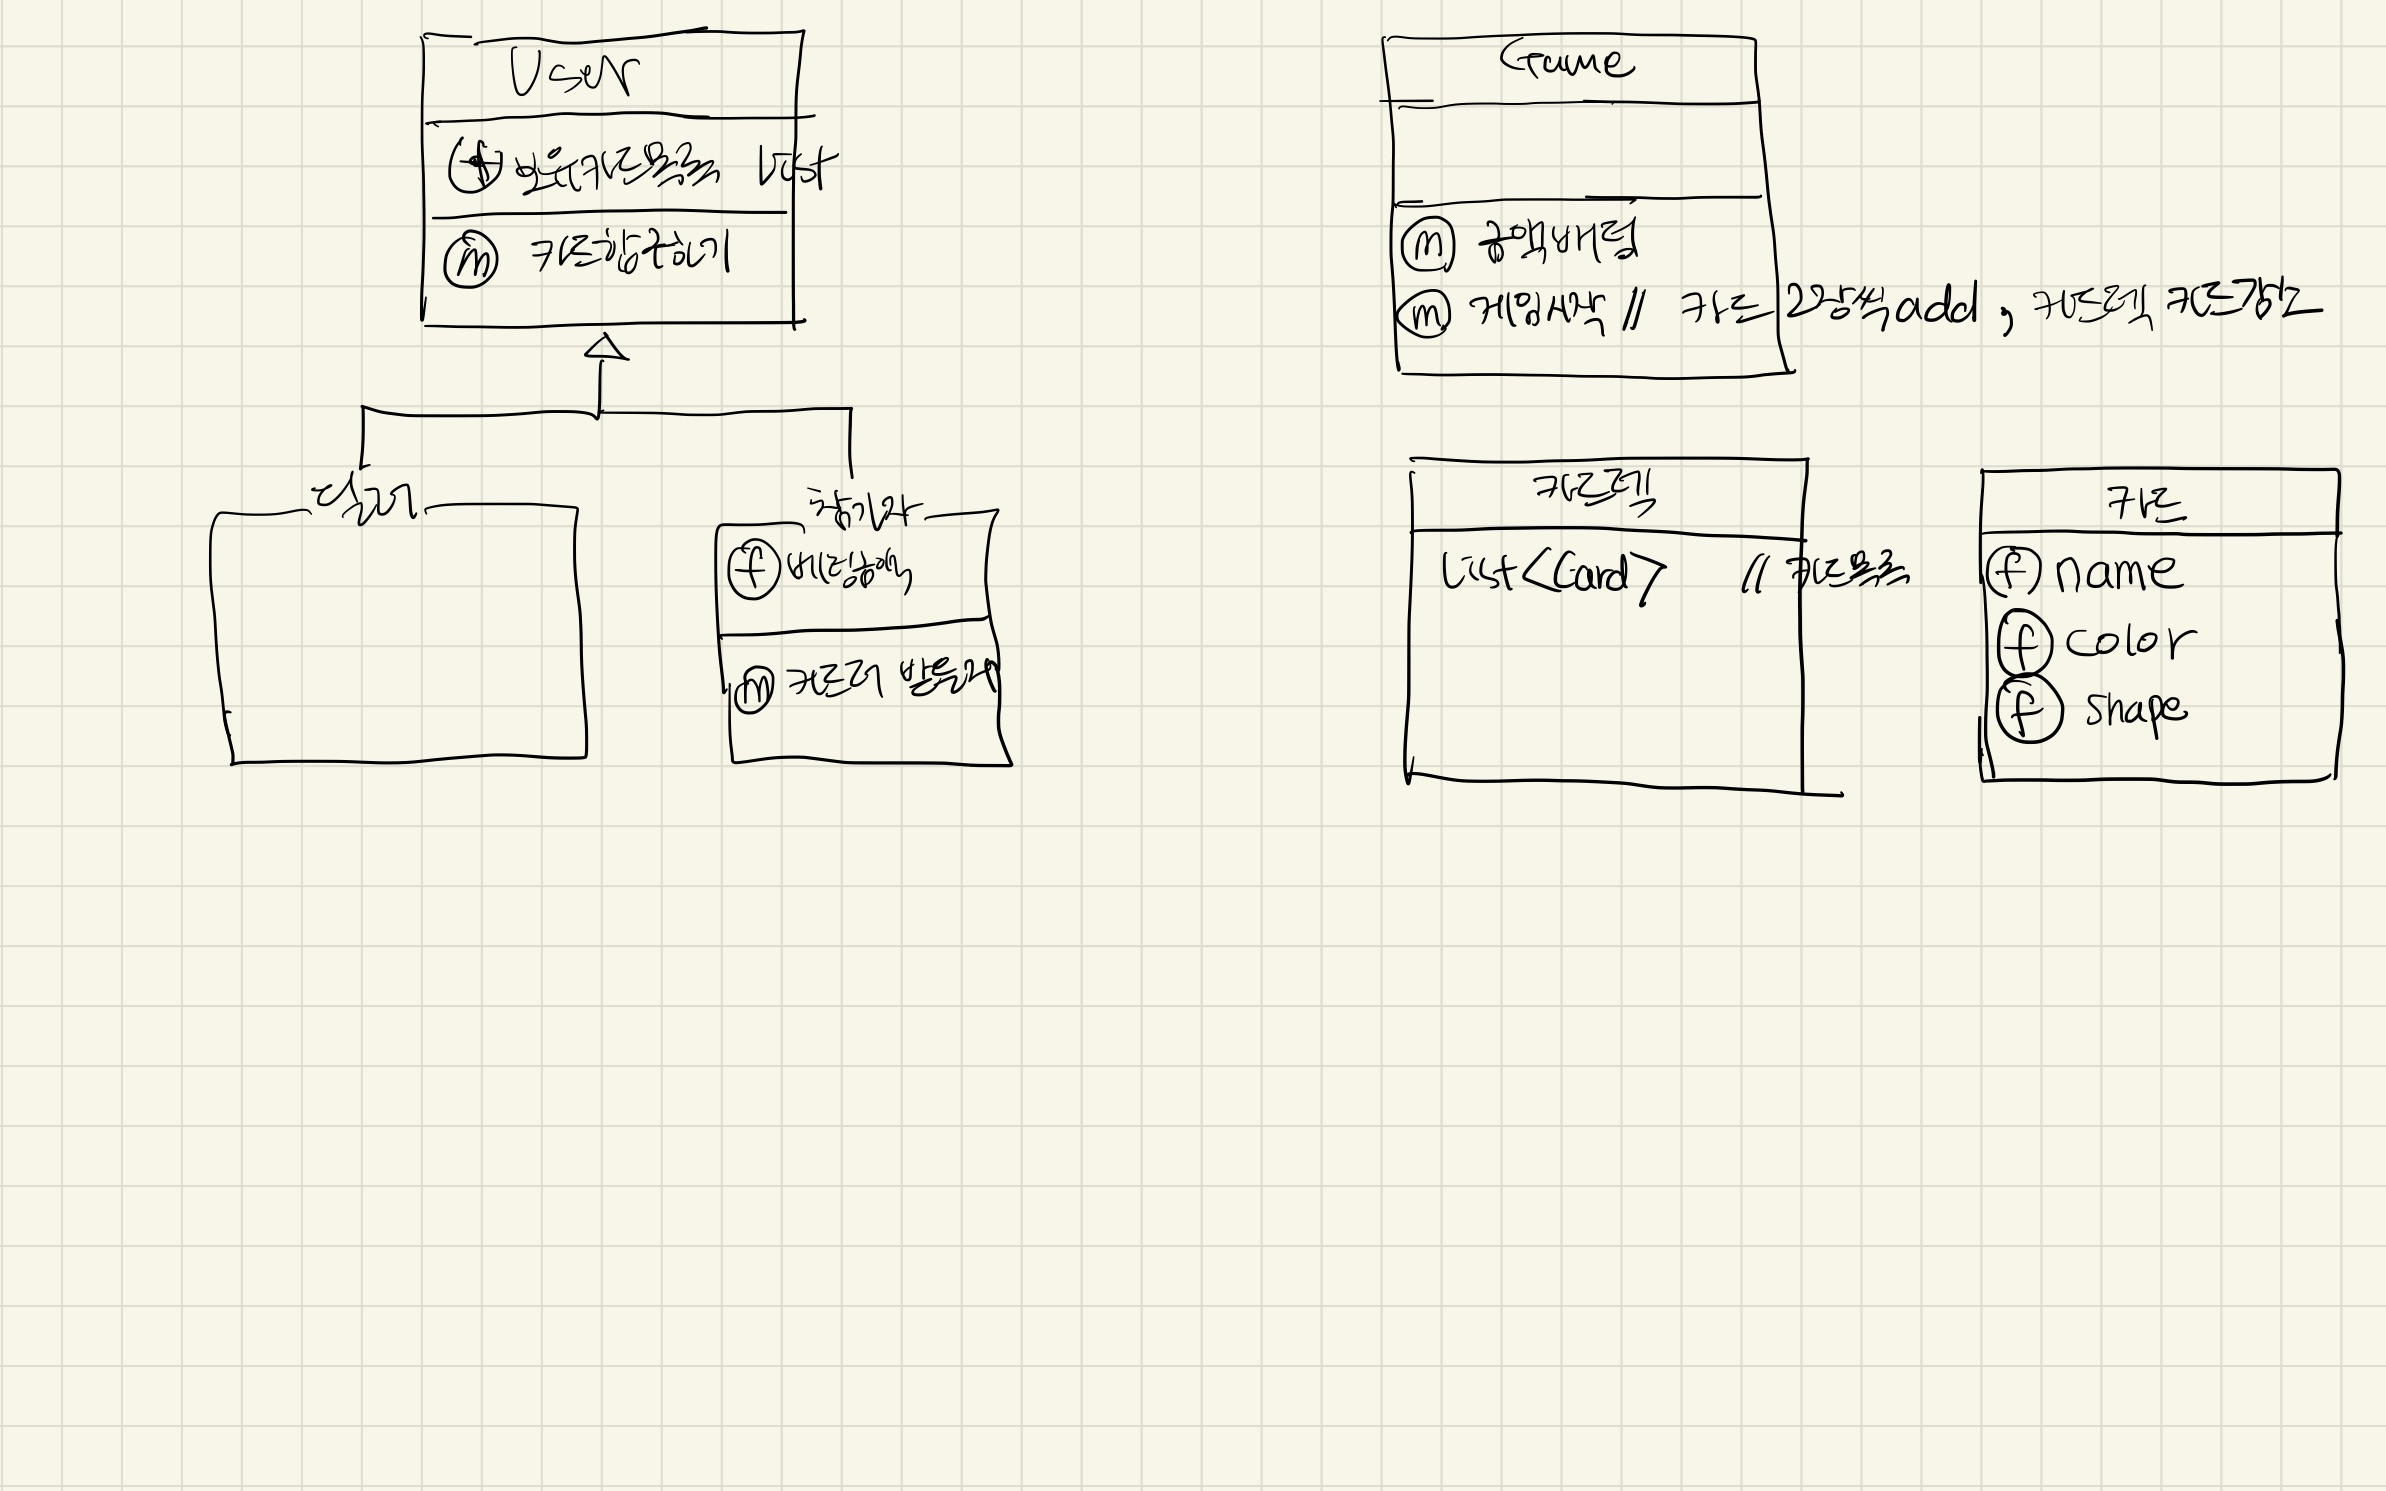
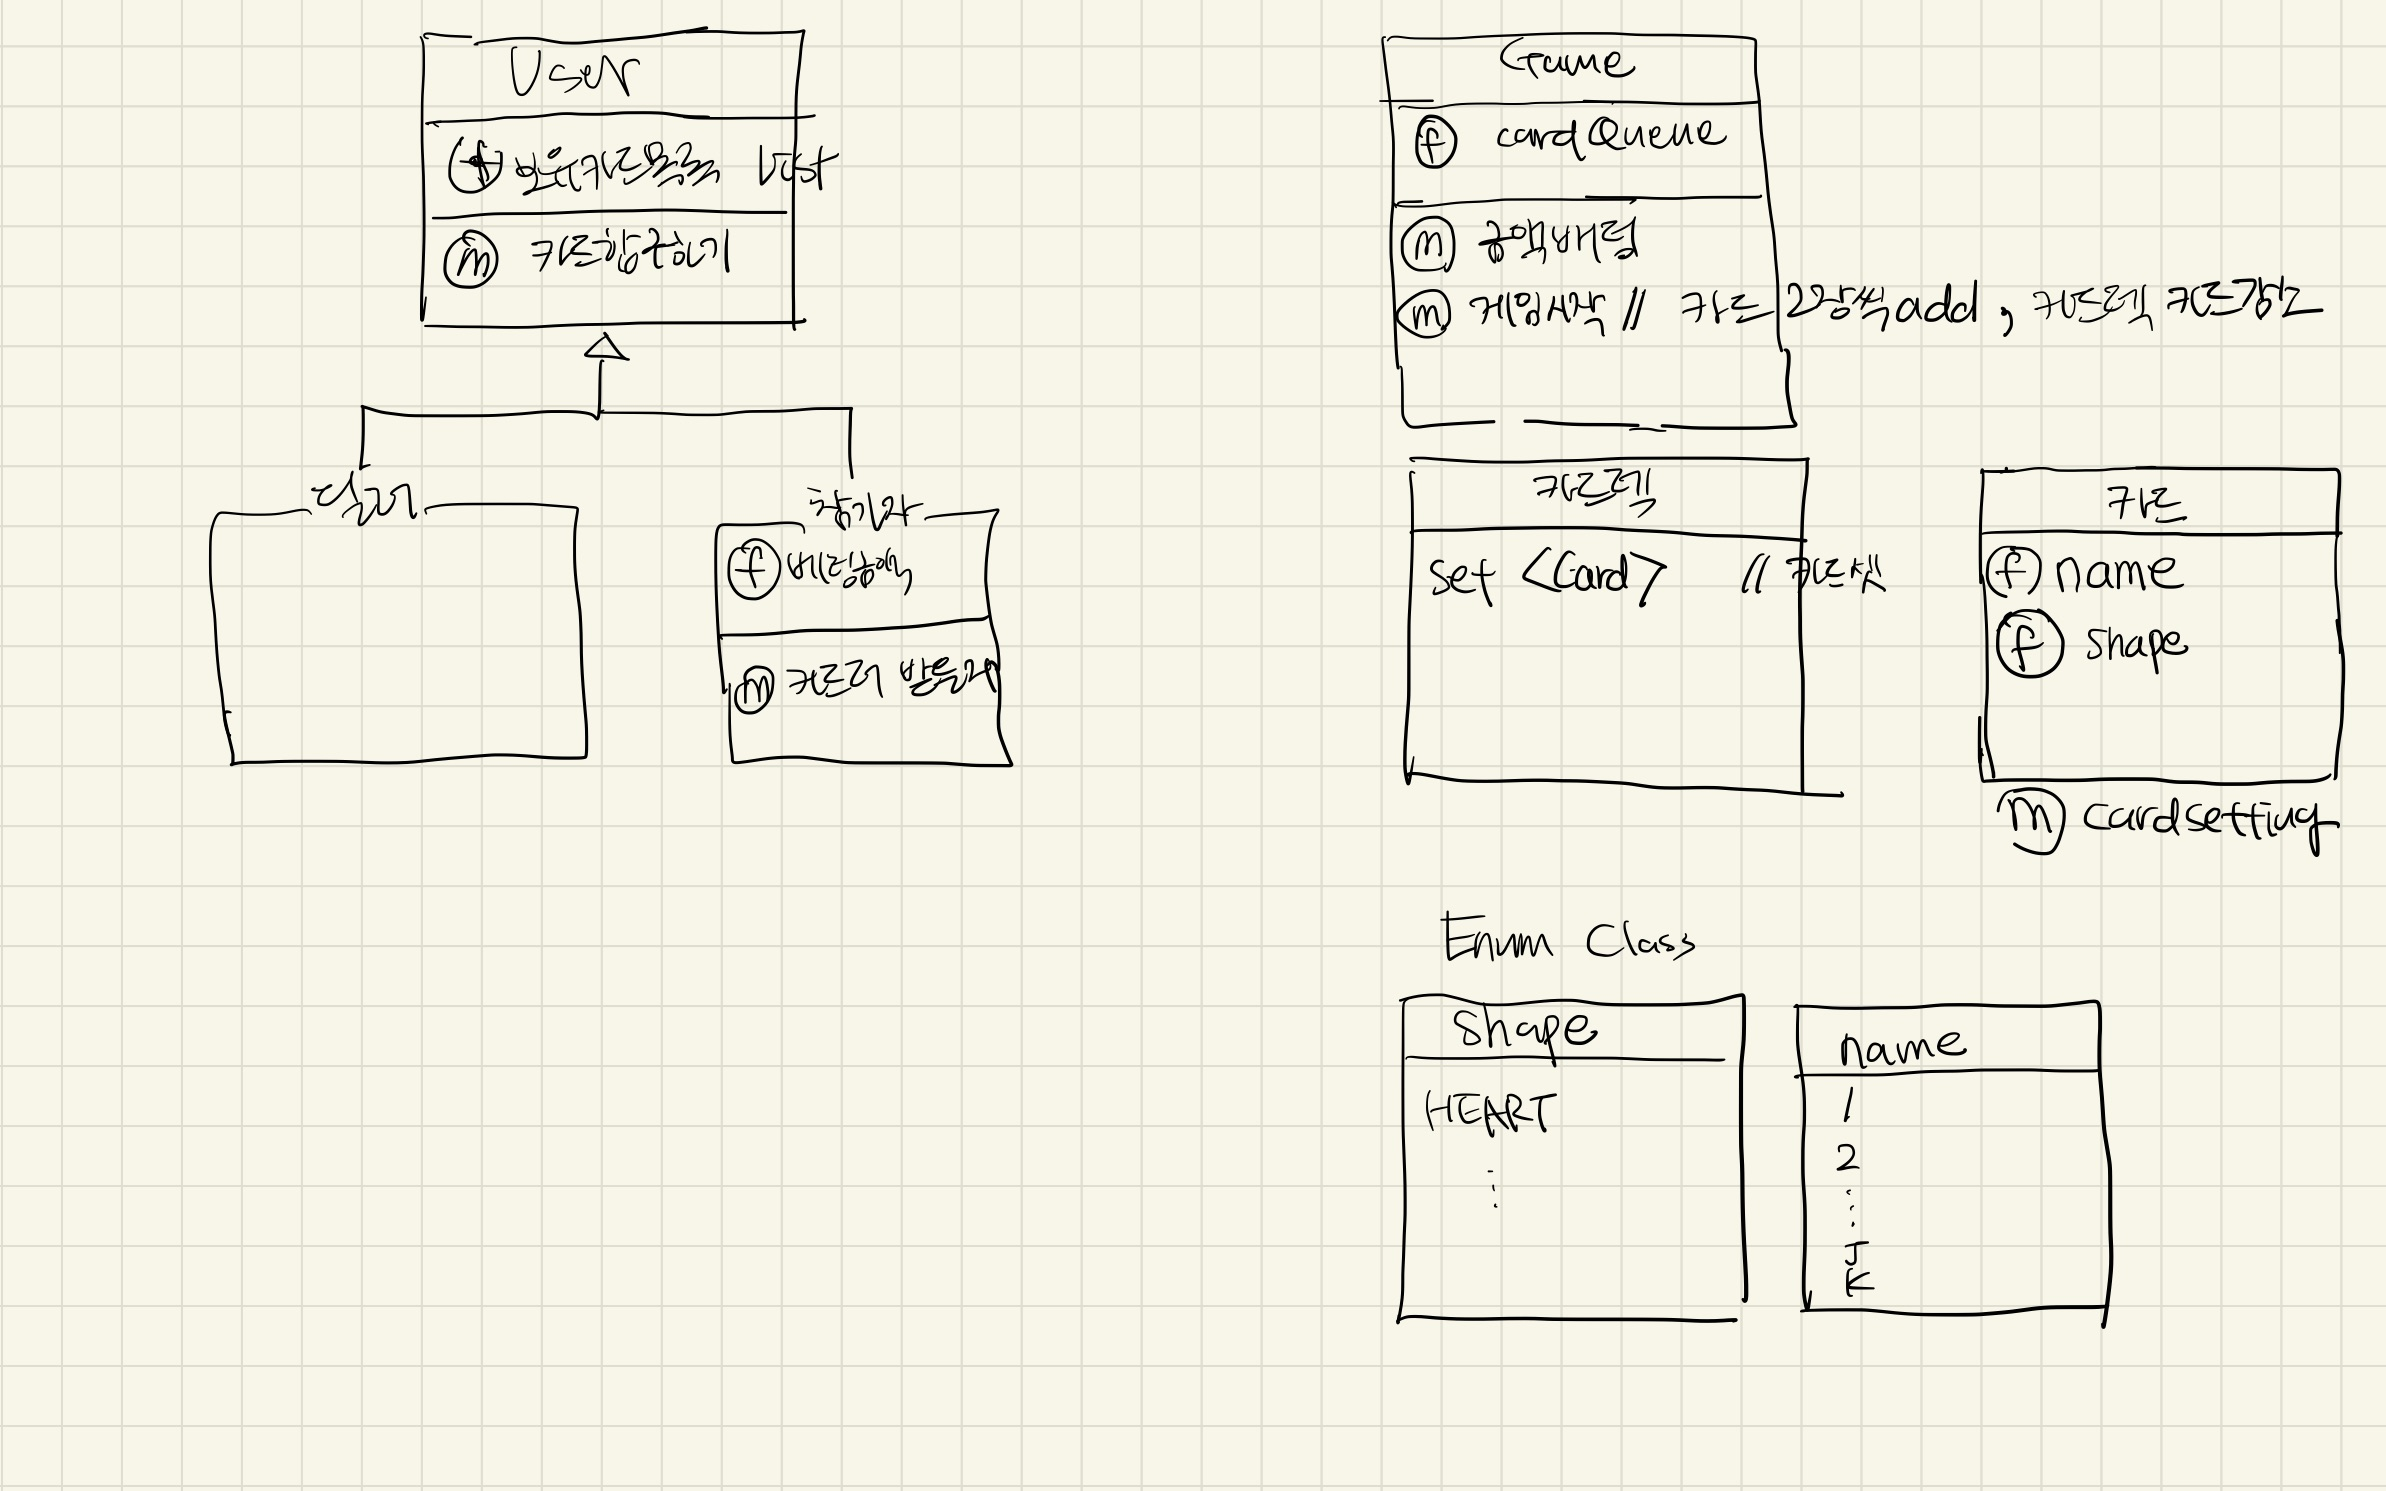
feat create domain

diff --git a/src/Name.java b/src/Name.java
@@ -1,0 +1,24 @@
+/**
+ * @author jhkim
+ * @since 2023/06/18
+ *
+ */
+public enum Name {
+	ONE(1),
+	TWO(2),
+	THREE(3),
+	FOUR(4),
+	FIVE(5),
+	SIX(6),
+	SEVEN(7),
+	EIGHT(8),
+	NINE(9),
+	J(10),
+	Q(10),
+	K(10);
+	private int num;
+
+	Name(int num) {
+		this.num = num;
+	}
+}

diff --git a/src/Shape.java b/src/Shape.java
@@ -1,0 +1,11 @@
+/**
+ * @author jhkim
+ * @since 2023/06/18
+ *
+ */
+public enum Shape {
+	HEART,
+	SPADE,
+	DIAMOND,
+	CLUB
+}

diff --git a/src/Card.java b/src/Card.java
@@ -5,6 +5,5 @@
  */
 public class Card {
 	private String name;
-	private String color;
 	private String shape;
 }
